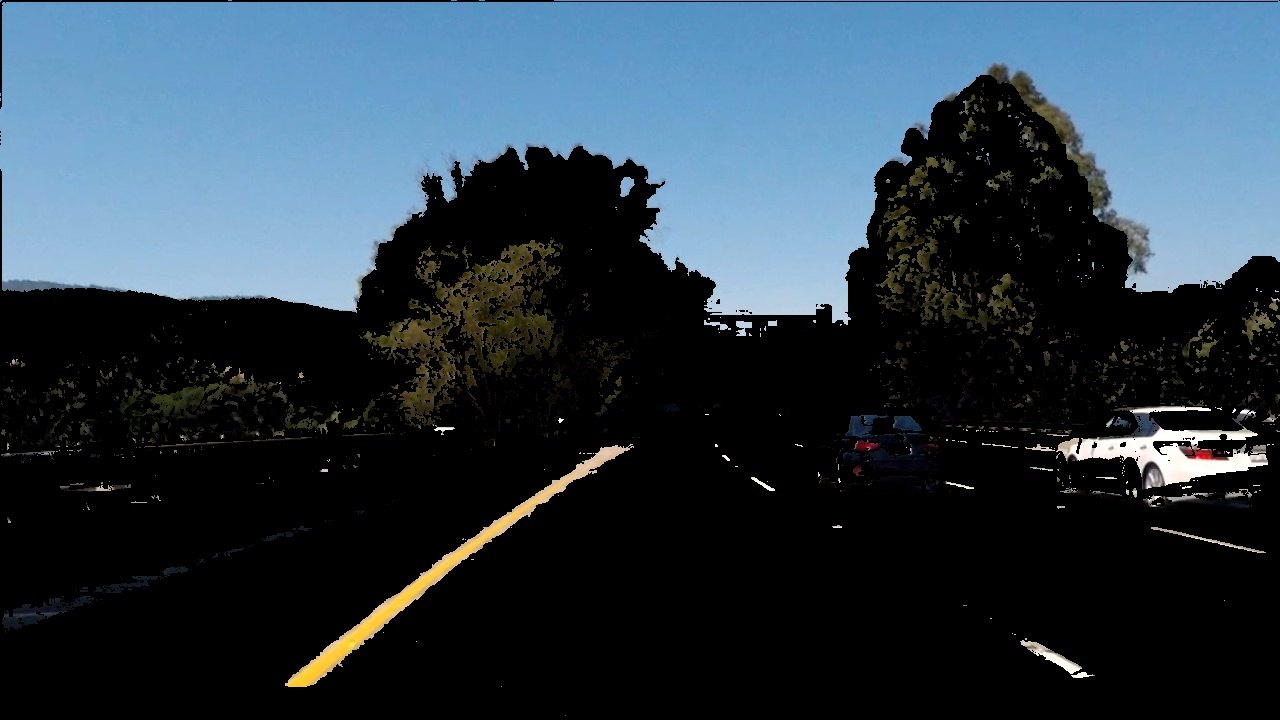
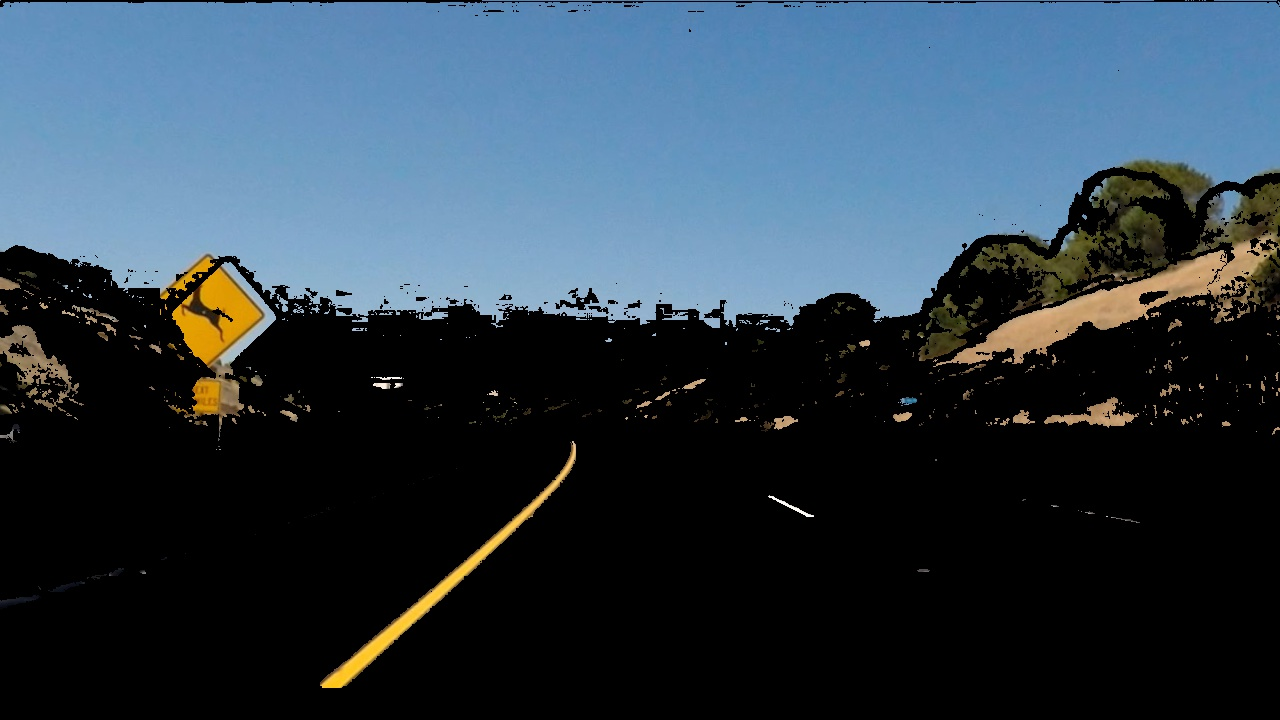
Add latest perspective tuning, corresponding jpgs, and semi-final edits to notebook file

diff --git a/lane_lines.py b/lane_lines.py
@@ -119,13 +119,13 @@ class LaneLines(Pipeline):
         # XXX: are of the same viewing angle and dimensions (front-facing, 1280x720)
         x = 1280
         y = 717
-        off = 0
+        off = 50
 
         # TODO: Verify this still works even if the car is not centered in the lane
-        br = [1245, 675]
+        br = [1245, 669]
         bl = [200, 675]
-        tr = [735, 460]
-        tl = [568, 460]
+        tr = [730, 455]
+        tl = [569, 460]
 
         dbr = [x - off, y - off]
         dbl = [0 + off, y - off]
@@ -152,7 +152,7 @@ class LaneLines(Pipeline):
         # undistort and create a copy
         undistort_img = np.copy(img)
         if debug_all:
-            imgs['undistort'] = np.copy(undistort_img)
+            imgs = {'undistort': np.copy(undistort_img) }
 
         # create edge detection mask, and zero out anything not found in mask
         mask = self.edge_detection(img)
@@ -480,7 +480,7 @@ class LaneLines(Pipeline):
 if __name__ == '__main__':
     lane_lines = LaneLines()
     # Test calibration and update calibration data file
-    # lane_lines.calibrate(debug = True, read_cal = False)
+    lane_lines.calibrate(debug = True, read_cal = False)
 
     # Make sure calibration data is read in
     lane_lines.calibrate()

diff --git a/car_world.py b/car_world.py
@@ -41,7 +41,8 @@ class CarWorld(Pipeline):
 
         # Identify Lanes
         lanes_img = self.lanes.pipeline(img, debug_all=debug_all)
-        assert lanes_img.shape == img.shape
+        if not debug_all:
+            assert lanes_img.shape == img.shape
 
         # Identify Cars
         # vehicles_img = self.vehicles.pipeline(img)
